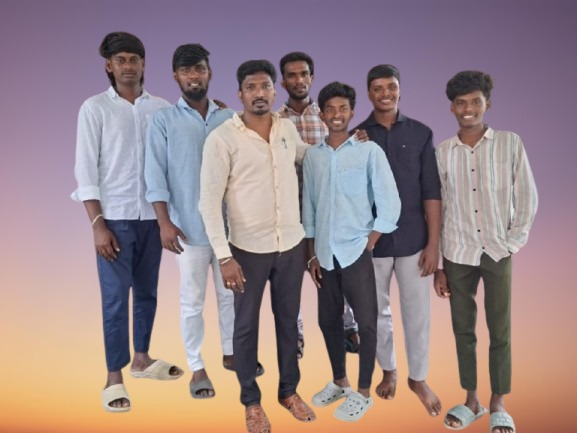
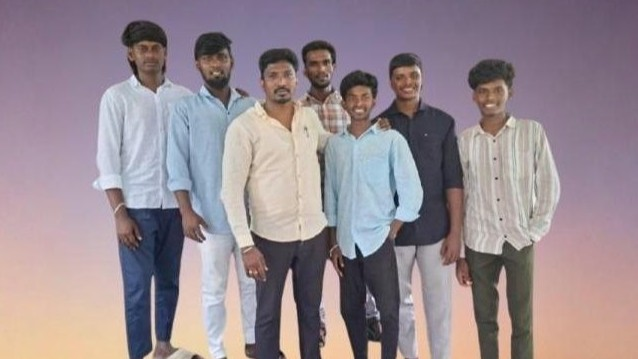
Auto update

diff --git a/src/components/Volunteer2.jsx b/src/components/Volunteer2.jsx
@@ -1,7 +1,7 @@
 import React from "react"
 import "bootstrap/dist/css/bootstrap.min.css"
 import BoardMemberitle from "../assets/Board Members.png"
-import memberpic from '../assets/volunteers.jpg'
+import memberpic from '..//assets/volunteers.jpg'
 
 
 const Volunteer2 = () => {
@@ -76,11 +76,14 @@ const Volunteer2 = () => {
             </div>
 
             <div className="row d-lg-flex justify-content-lg-center my-5">
-                <div className="col-md-5 ">
+                <div className="col-md-5">
                     <div className="member-card bg-white rounded-5 py-4 px-4 px-lg-0  d-flex flex-column justify-content-center align-items-center ">
                         <h4 className="text-center fw-bolder text-primary ">Become a Member</h4>
 
-                            <img src={memberpic} alt="" height={200} width={300} className="my-4 rounded-pill " />
+                        <div className="px-5">
+
+                            <img src={memberpic} alt="" className="my-4 rounded-5 img-fluid " />
+                        </div>
 
                         <div className=" d-flex flex-column justify-content-center align-items-center">
                             <p className="text-center  fw-bold text-primary mb-">"The best way to find yourself is to lose yourself in the service of others."</p>
